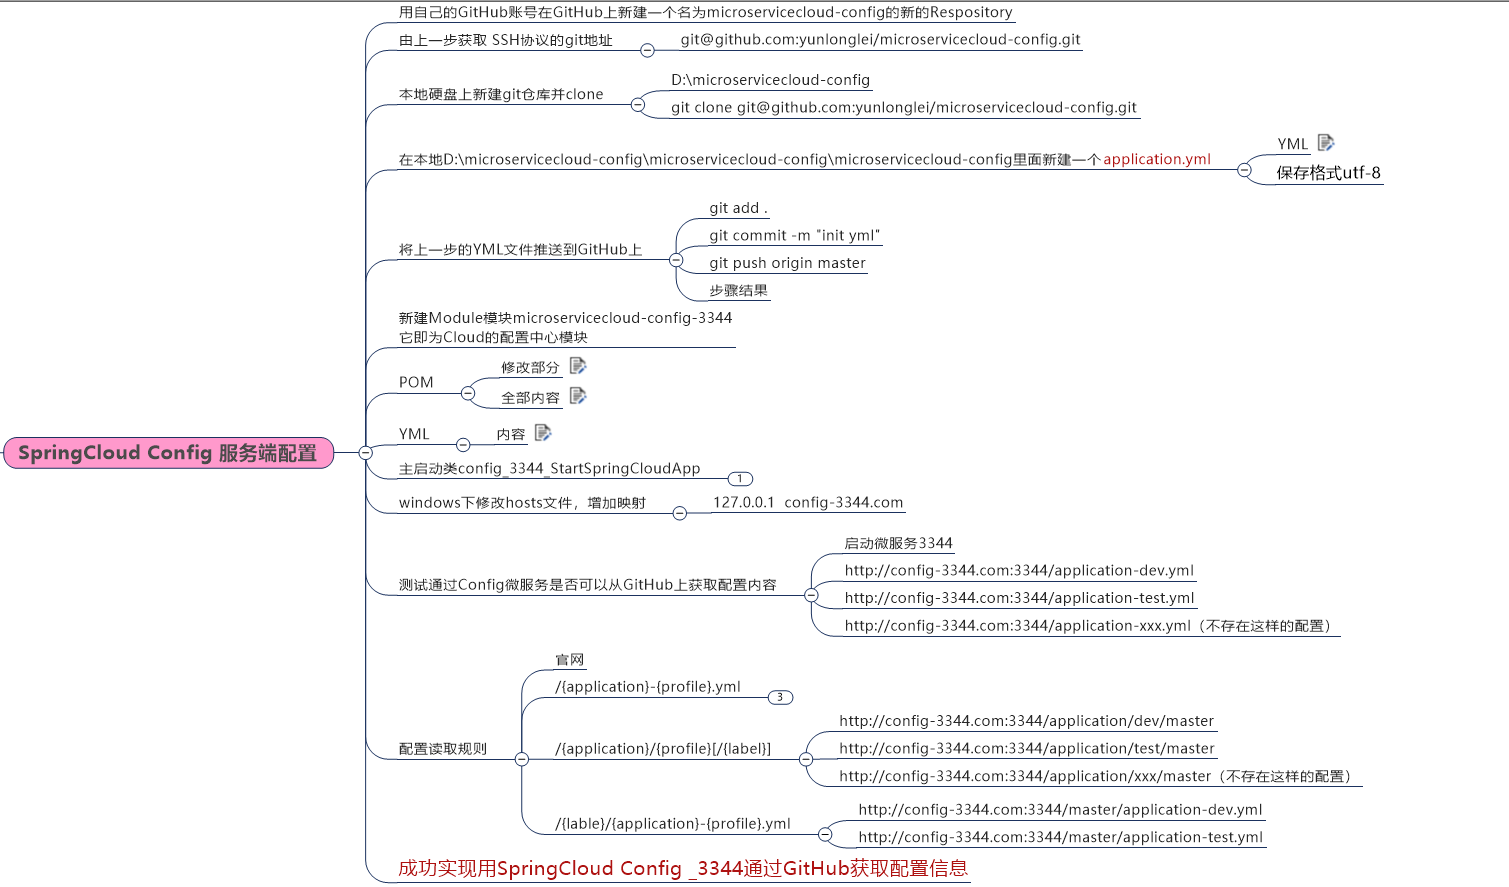
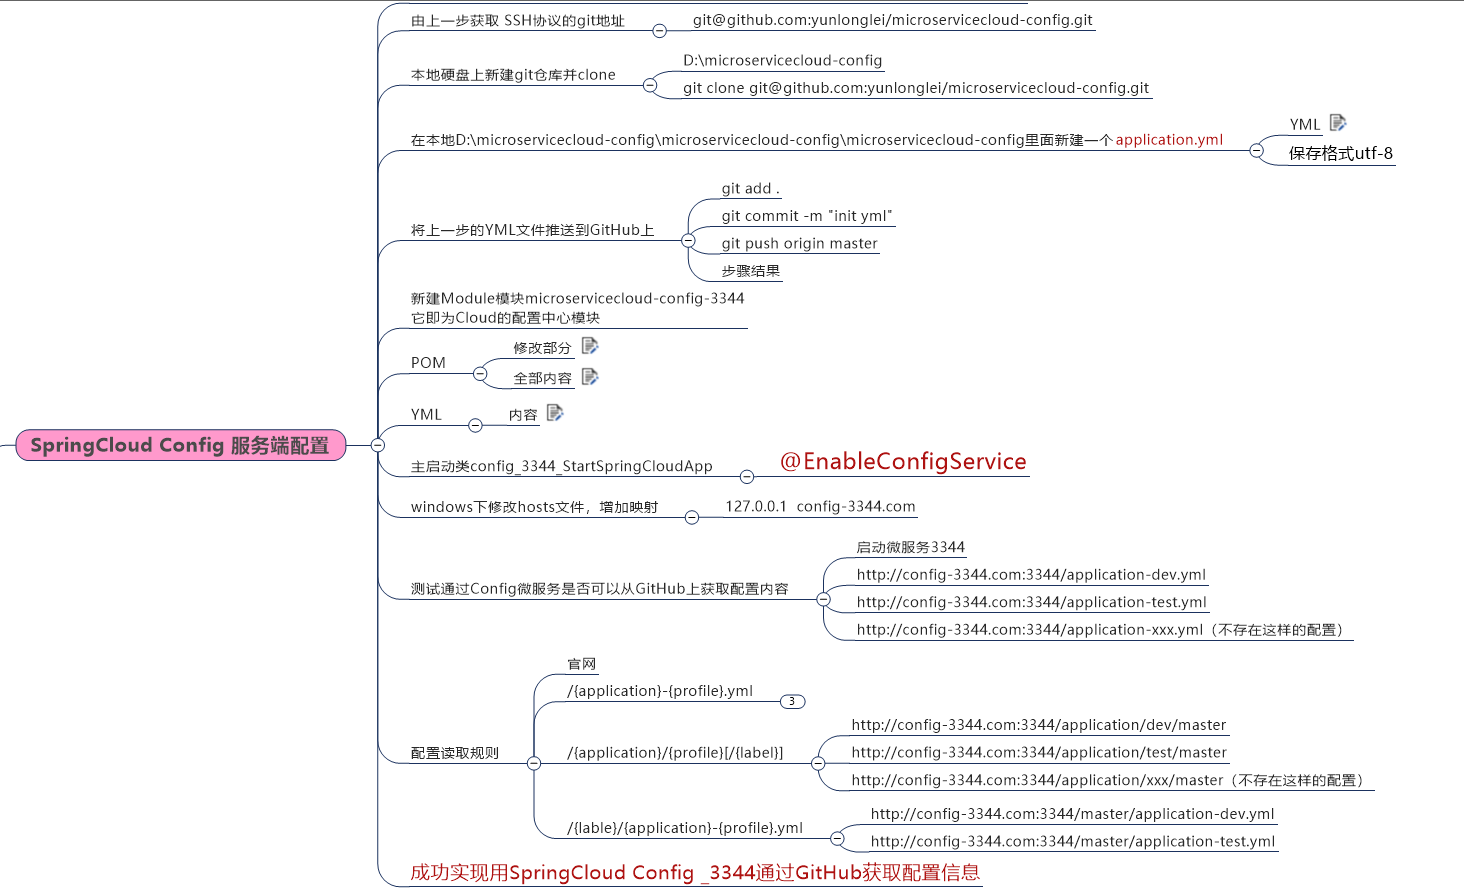
Config 优化

Changed region(s): [[0.0, 0.0, 0.9529, 0.7306], [0.2459, 0.7306, 0.9221, 1.0]]

diff --git a/README.md b/README.md
@@ -165,7 +165,8 @@ zuul:
 服务端也称为分布式配置中心，它是一个独立的微服务Service，用来连接配置服务器并为客户端提获取配置信息，加密/解密信息等访问接口。  
 <br/>
 客户端则是通过指定的配置中心来管理应用资源，以及与业务相关的配置内容，并在启动的时候从配置中心获取才和加载配置信息，配置服务器默认采用git来存储配置信息，这样就有助于对环境配置进行版本管理，并且可以通过git客户端工具来方便管理和访问配置内容。  
-### SpringCloud Config 服务端配置
+### SpringCloud Config 服务端配置  
+主启动类config_3344_StartSpringCloudApp中加入[**@EnableConfigService**](https://github.com/yunlonglei/MicroServiceCloud/blob/master/microservicecloud-config-3344/src/main/java/com/atguigu/springcloud/Config_3344_StartSpringCloudApp.java)
 ![SpringCloud Config 服务端配置](https://github.com/yunlonglei/MicroServiceCloud/blob/master/img-folder/SpringCloud%20Config%E6%9C%8D%E5%8A%A1%E7%AB%AF%E9%85%8D%E7%BD%AE.png)  
 - [**microservicecloud-config的新的Respository**](https://github.com/yunlonglei/microservicecloud-config)  
 - [**microservicecloud-config的新的Respository中的application.yml**](https://github.com/yunlonglei/microservicecloud-config/blob/master/application.yml)  
